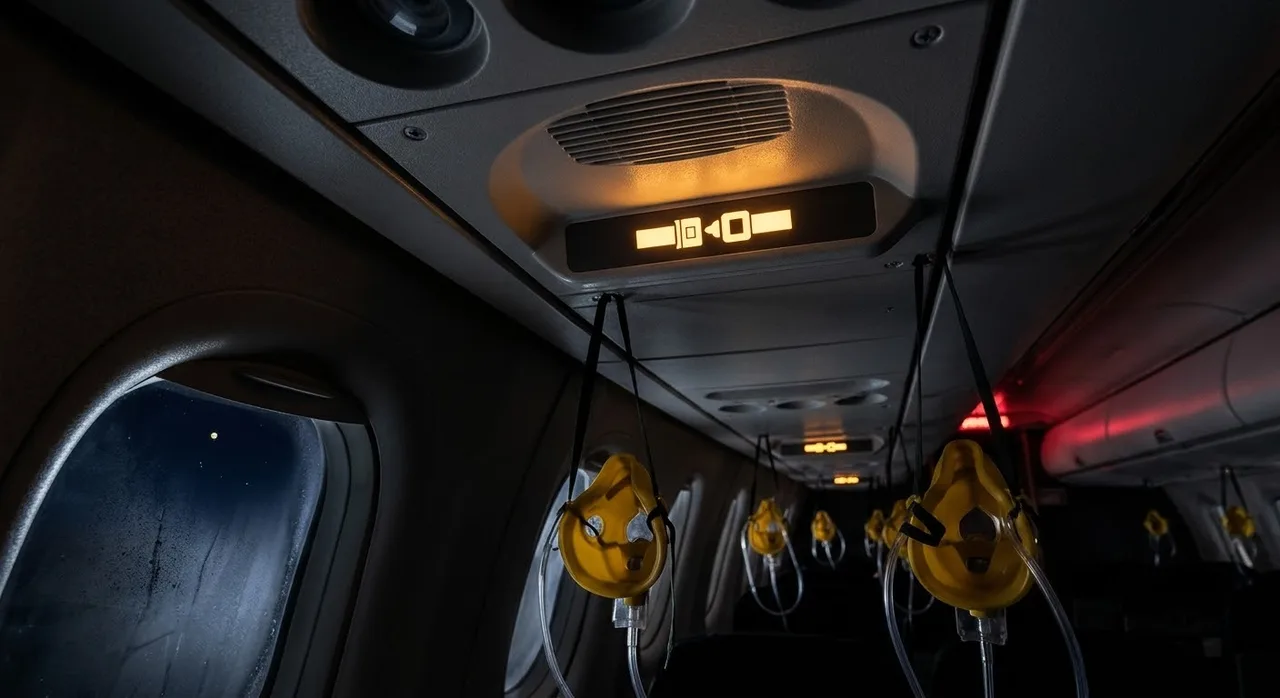
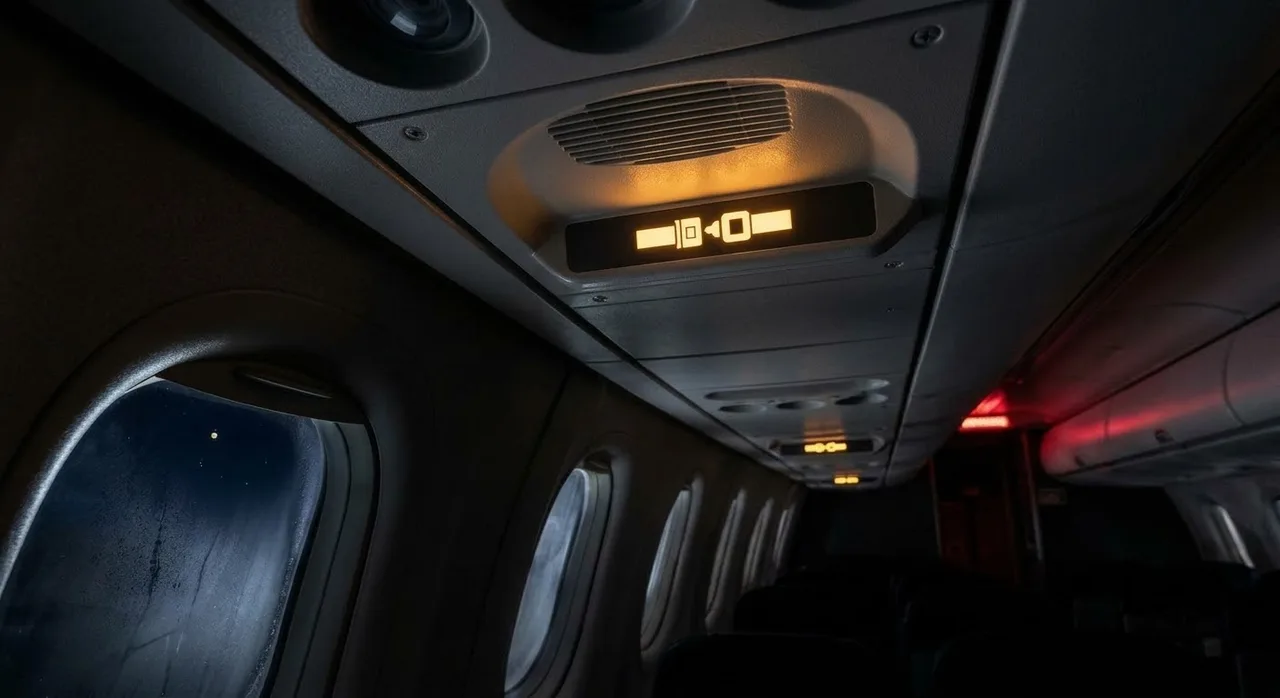
Hangar Escola: novas fotos nos capítulos 8 e 10 do AF 447
Claude-Session: https://claude.ai/code/session_01PxKViBYL6qRqF4hkoHqSJb

diff --git a/aviao/desastres.js b/aviao/desastres.js
@@ -360,7 +360,7 @@ const ACIDENTES = [
     p: ["Na turbulência, o avião inclinou para a direita. Bonin corrigiu com o manche, mas exagerou nos movimentos, para um lado e para o outro. E puxou o manche para trás. O nariz subiu.", "Dois avisos curtos soaram na cabine, uma voz sintética dizendo “STALL, STALL” (estol, em inglês). Duraram um instante e pararam. Robert leu os alarmes no painel: “Perdemos as velocidades... lei alternada.”", "O avião começou a subir rápido, a 7.000 pés por minuto. Robert percebeu: “Olha a velocidade... Você está subindo. Desce, desce!” Bonin baixou um pouco o nariz, mas não o suficiente. O avião continuou subindo e perdendo velocidade, como uma bola jogada para o alto.", "Robert apertou várias vezes a campainha que chama o comandante. “Ele vem ou não vem?”, perguntou, nervoso. Em menos de um minuto, o gelo derreteu e as velocidades voltaram ao normal. O problema que tinha começado tudo já não existia. Mas o avião agora estava indo para um problema muito maior."] },
   { t: "O estol", foto: { src: "assets/af447-estol.webp", legenda: "Recriação do A330 com o nariz para cima, perto dos 38.000 pés, já sem velocidade para continuar voando (imagem ilustrativa)", tag: "STALL · STALL" }, parte: 2, hora: "23:10:51 seg", lugar: "38.000 pés", sabia: "Estol é quando a asa inclina demais em relação ao vento e o ar se descola dela. A asa deixa de sustentar o avião, não importa quanta força os motores façam.", cena: CENAS.estol,
     p: ["Perto dos 38.000 pés, o ar é rarefeito e o avião não tem mais velocidade para continuar subindo. Às 23:10:51 seg, o alarme de estol voltou. Desta vez não parou: tocou sem interrupção por 54 segundos.", "O avião tremia inteiro, um chacoalhar que os pilotos chamam de buffet: o ar se descolando das asas. Bonin fez o que tinha aprendido para uma situação perto do chão: motores na potência máxima e nariz para cima. A 38.000 pés, isso não funciona. Sem velocidade, a asa simplesmente não sustenta.", "O A330 parou de voar e começou a cair. O nariz continuava apontado para cima, a cerca de 15 graus, mas o avião descia quase reto, de barriga, a uma velocidade que chegou a 10.000 pés por minuto, mais de 180 km/h para baixo. O ângulo entre a asa e o vento passou de 40 graus.", "Era noite fechada, dentro das nuvens. Não havia horizonte lá fora para mostrar o que estava acontecendo. Nos painéis, os números de altitude giravam para baixo cada vez mais rápido."] },
-  { t: "“O que vocês estão fazendo?”", foto: { src: "assets/af447-cabine.webp", legenda: "Cabine de passageiros no escuro (imagem ilustrativa). No AF 447, as máscaras de oxigênio não chegaram a cair: a cabine continuou pressurizada até o fim." }, parte: 2, hora: "23:11:42 seg", lugar: "Caindo, abaixo de 35.000 pés", sabia: "Quando a velocidade medida fica abaixo de 60 nós, os computadores do A330 a consideram inválida e o alarme de estol se cala, justamente quando o estol está pior.", cena: CENAS.cabineNoite,
+  { t: "“O que vocês estão fazendo?”", foto: { src: "assets/af447-cabine.webp", legenda: "Cabine de passageiros no escuro (imagem ilustrativa). Nenhum aviso foi dado aos passageiros, e as máscaras de oxigênio não caíram: a cabine continuou pressurizada até o fim." }, parte: 2, hora: "23:11:42 seg", lugar: "Caindo, abaixo de 35.000 pés", sabia: "Quando a velocidade medida fica abaixo de 60 nós, os computadores do A330 a consideram inválida e o alarme de estol se cala, justamente quando o estol está pior.", cena: CENAS.cabineNoite,
     p: ["Às 23:11:42 seg, o comandante Dubois entrou na cabine. Tinha passado só um minuto e meio desde o desligamento do piloto automático. “O que vocês estão fazendo?”, perguntou.", "“Perdemos o controle do avião, não estamos entendendo nada, já tentamos de tudo”, respondeu Robert. O comandante sentou-se na cadeira de trás, atrás dos dois, olhando os instrumentos. Não reassumiu os comandos.", "Os painéis mostravam um quadro confuso. O avião caía, mas o nariz estava alto. A velocidade era tão baixa que os computadores passaram a considerá-la inválida, e o alarme de estol parou de tocar. Quando Bonin empurrava o manche para a frente, o certo a fazer, a velocidade subia, voltava a ser válida e o alarme tocava de novo. Era como se o avião punisse a manobra certa.", "Na cabine de passageiros, ninguém recebeu nenhum aviso. Não há gravação de lá. Pelos dados, o avião sacudia como numa turbulência forte, inclinado para trás, balançando de um lado para o outro. As máscaras de oxigênio não caíram, porque a cabine continuava pressurizada. Talvez muitos nem tenham entendido que o avião estava caindo."] },
   { t: "Dois manches, duas ordens", parte: 2, hora: "23:13:40 seg", lugar: "Menos de 10.000 pés acima do mar", sabia: "Nos Airbus, os dois manches laterais não são ligados entre si: um piloto não sente o que o outro está fazendo. Se os dois mexem ao mesmo tempo, os comandos se somam e soa o alarme \"DUAL INPUT\".", cena: CENAS.manches,
     p: ["Durante quase três minutos, os três tentaram entender o que estava acontecendo. Falavam de altitude, de potência, de inclinação. Ninguém disse a palavra estol.", "Às 23:13:40 seg, Bonin disse a frase que mudaria tudo, se tivesse vindo antes: “Mas eu estou com o manche todo para trás faz tempo!”", "O comandante reagiu na hora: “Não, não, não, não suba!” Robert: “Então desce. Me dá os comandos, os comandos para mim!” Robert apertou o botão que dá prioridade ao manche dele e empurrou o nariz para baixo. Pela primeira vez, a saída estava sendo tentada.", "Mas já era tarde. A essa altura, para sair do estol, o avião precisaria baixar muito o nariz e mergulhar, ganhando velocidade, e não havia mais altura para isso. Segundos depois, Bonin voltou a puxar o manche, e o alarme \"DUAL INPUT\" soou: cada um mandava o avião para um lado."] },

diff --git a/aviao/sw.js b/aviao/sw.js
@@ -1,7 +1,7 @@
 /* Service worker: o app abre e funciona offline. */
-const CACHE = 'hangar-escola-v132';
+const CACHE = 'hangar-escola-v133';
 // Os arquivos levam "?v=" no index.html: ao mudar a versão, o celular nunca mistura CSS/JS antigo com HTML novo.
-const FILES = ['./', 'index.html', 'style.css?v=132', 'avioes.js?v=132', 'catalogo747.js?v=132', 'cockpit747.js?v=132', 'motor3d.js?v=132', 'motor747.js?v=132', 'meteo.js?v=132', 'radio.js?v=132', 'historia.js?v=132', 'desastres.js?v=132', 'app.js?v=132', 'icon.svg', 'apple-touch-icon.png', 'icon-192.png', 'icon-512.png', 'manifest.webmanifest', 'assets/747-lateral.jpg', 'assets/747-frontal.jpg', 'assets/747-motor.jpg', 'assets/747-superior.png', 'assets/747-lado.webp', 'assets/747-lado-prof.webp', 'assets/747-tras.webp', 'assets/747-tras-trem.webp', 'assets/bank-angle.mp3', 'assets/v1.mp3', 'assets/nuvem-cb.webp', 'assets/nuvem-cu.webp', 'assets/nuvem-ci.webp', 'assets/nuvem-cc.webp', 'assets/nuvem-cs.webp', 'assets/nuvem-ac.webp', 'assets/nuvem-as.webp', 'assets/nuvem-ns.webp', 'assets/nuvem-sc.webp', 'assets/nuvem-st.webp', 'assets/nuvens-atlas.webp', 'assets/historia-1881.webp', 'assets/historia-vevey.webp', 'assets/historia-serraria.webp', 'assets/historia-dominguez.webp', 'assets/historia-curtiss.webp', 'assets/jal123-mapa.webp', 'assets/jal123-haneda.webp', 'assets/jal123-decolagem.webp', 'assets/jal123-cauda.webp', 'assets/jal123-cabine.webp', 'assets/jal123-hidraulico.webp', 'assets/jal123-manetes.webp', 'assets/jal123-montanhas.webp', 'assets/jal123-bilhete.webp', 'assets/jal123-c130.webp', 'assets/jal123-deriva.webp', 'assets/af447-mapa.webp', 'assets/af447-galeao.webp', 'assets/af447-decolagem.webp', 'assets/af447-lua.webp', 'assets/af447-tempestade.webp', 'assets/af447-painel.webp', 'assets/cauda-af.webp', 'assets/cauda-jal.webp', 'assets/af447-pitot.webp', 'assets/af447-pitot-gelo.webp', 'assets/af447-manches.webp', 'assets/af447-estol.webp', 'assets/af447-cabine.webp', 'assets/af447-queda.webp', 'assets/af447-deriva.webp', 'assets/af447-painel-voos.webp', 'assets/af447-fundo.webp', 'assets/af447-relatorio.webp', 'assets/af447-sondas.webp', 'assets/af447-balanca.webp', 'assets/af447-estol-diagrama.webp'];
+const FILES = ['./', 'index.html', 'style.css?v=133', 'avioes.js?v=133', 'catalogo747.js?v=133', 'cockpit747.js?v=133', 'motor3d.js?v=133', 'motor747.js?v=133', 'meteo.js?v=133', 'radio.js?v=133', 'historia.js?v=133', 'desastres.js?v=133', 'app.js?v=133', 'icon.svg', 'apple-touch-icon.png', 'icon-192.png', 'icon-512.png', 'manifest.webmanifest', 'assets/747-lateral.jpg', 'assets/747-frontal.jpg', 'assets/747-motor.jpg', 'assets/747-superior.png', 'assets/747-lado.webp', 'assets/747-lado-prof.webp', 'assets/747-tras.webp', 'assets/747-tras-trem.webp', 'assets/bank-angle.mp3', 'assets/v1.mp3', 'assets/nuvem-cb.webp', 'assets/nuvem-cu.webp', 'assets/nuvem-ci.webp', 'assets/nuvem-cc.webp', 'assets/nuvem-cs.webp', 'assets/nuvem-ac.webp', 'assets/nuvem-as.webp', 'assets/nuvem-ns.webp', 'assets/nuvem-sc.webp', 'assets/nuvem-st.webp', 'assets/nuvens-atlas.webp', 'assets/historia-1881.webp', 'assets/historia-vevey.webp', 'assets/historia-serraria.webp', 'assets/historia-dominguez.webp', 'assets/historia-curtiss.webp', 'assets/jal123-mapa.webp', 'assets/jal123-haneda.webp', 'assets/jal123-decolagem.webp', 'assets/jal123-cauda.webp', 'assets/jal123-cabine.webp', 'assets/jal123-hidraulico.webp', 'assets/jal123-manetes.webp', 'assets/jal123-montanhas.webp', 'assets/jal123-bilhete.webp', 'assets/jal123-c130.webp', 'assets/jal123-deriva.webp', 'assets/af447-mapa.webp', 'assets/af447-galeao.webp', 'assets/af447-decolagem.webp', 'assets/af447-lua.webp', 'assets/af447-tempestade.webp', 'assets/af447-painel.webp', 'assets/cauda-af.webp', 'assets/cauda-jal.webp', 'assets/af447-pitot.webp', 'assets/af447-pitot-gelo.webp', 'assets/af447-manches.webp', 'assets/af447-estol.webp', 'assets/af447-cabine.webp', 'assets/af447-queda.webp', 'assets/af447-deriva.webp', 'assets/af447-painel-voos.webp', 'assets/af447-fundo.webp', 'assets/af447-relatorio.webp', 'assets/af447-sondas.webp', 'assets/af447-balanca.webp', 'assets/af447-estol-diagrama.webp'];
 
 self.addEventListener('install', (e) => {
   e.waitUntil(caches.open(CACHE).then((c) => c.addAll(FILES)).then(() => self.skipWaiting()));

diff --git a/aviao/index.html b/aviao/index.html
@@ -17,7 +17,7 @@
   <link rel="preconnect" href="https://fonts.googleapis.com">
   <link rel="preconnect" href="https://fonts.gstatic.com" crossorigin>
   <link href="https://fonts.googleapis.com/css2?family=Barlow+Condensed:wght@500;600;700&family=IBM+Plex+Mono:wght@400;500&family=IBM+Plex+Sans:wght@400;500;600&display=swap" rel="stylesheet">
-  <link rel="stylesheet" href="style.css?v=132">
+  <link rel="stylesheet" href="style.css?v=133">
 </head>
 <body>
   <!-- Intro: o avião decola pela pista iluminada e aparece o nome do app (toque para pular) -->
@@ -988,16 +988,16 @@
       </div>
     </section>
   </aside>
-  <script src="avioes.js?v=132"></script>
-  <script src="catalogo747.js?v=132"></script>
-  <script src="cockpit747.js?v=132"></script>
-  <script src="motor3d.js?v=132"></script>
-  <script src="motor747.js?v=132"></script>
-  <script src="meteo.js?v=132"></script>
-  <script src="radio.js?v=132"></script>
-  <script src="historia.js?v=132"></script>
-  <script src="desastres.js?v=132"></script>
-  <script src="app.js?v=132"></script>
+  <script src="avioes.js?v=133"></script>
+  <script src="catalogo747.js?v=133"></script>
+  <script src="cockpit747.js?v=133"></script>
+  <script src="motor3d.js?v=133"></script>
+  <script src="motor747.js?v=133"></script>
+  <script src="meteo.js?v=133"></script>
+  <script src="radio.js?v=133"></script>
+  <script src="historia.js?v=133"></script>
+  <script src="desastres.js?v=133"></script>
+  <script src="app.js?v=133"></script>
   <script>
     // No APK os arquivos já vêm dentro do app; o service worker é só para o site.
     const nativo = !!(window.Capacitor && window.Capacitor.isNativePlatform && window.Capacitor.isNativePlatform());
